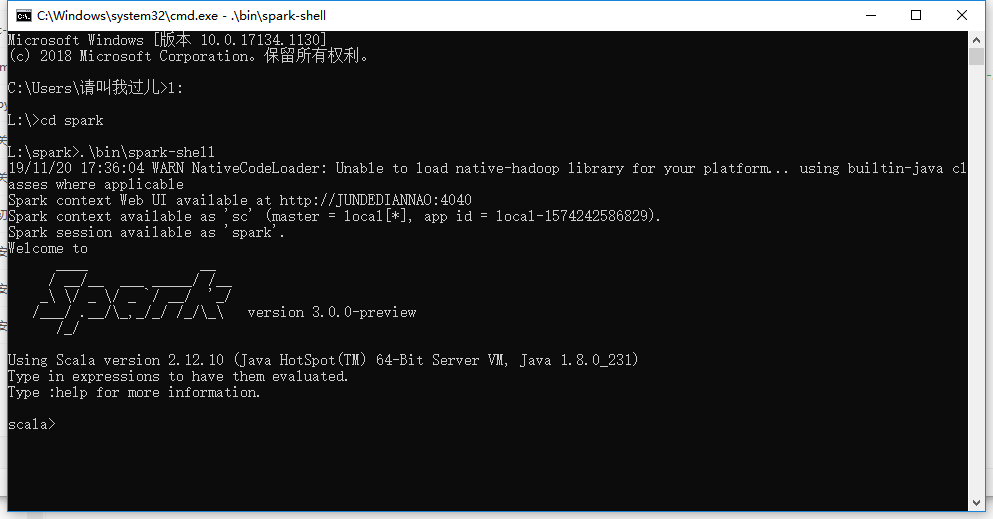
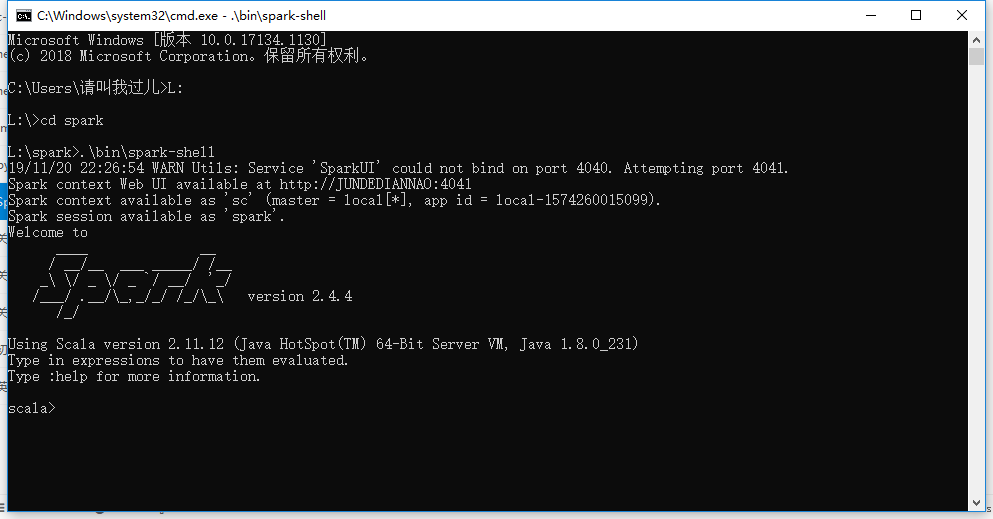
Site updated: 2019-11-20 22:33:50

diff --git a/2019/11/20/Spark-Python开发环境的搭建/index.html b/2019/11/20/Spark-Python开发环境的搭建/index.html
@@ -26,7 +26,7 @@
 <meta property="og:image" content="http://yoursite.com/2019/11/20/Spark-Python开发环境的搭建/4.2.png">
 <meta property="og:image" content="http://yoursite.com/2019/11/20/Spark-Python开发环境的搭建/6.1.png">
 <meta property="og:image" content="http://yoursite.com/2019/11/20/Spark-Python开发环境的搭建/6.2.png">
-<meta property="og:updated_time" content="2019-11-20T09:55:33.261Z">
+<meta property="og:updated_time" content="2019-11-20T14:31:22.311Z">
 <meta name="twitter:card" content="summary">
 <meta name="twitter:title" content="Spark Python开发环境的搭建">
 <meta name="twitter:description" content="搭建 Spark Python操作系统和软件版本信息如下:Windows10教育版，64位Anaconda3-5.3.1-Windows-x86_64python-3.6.5-amd64Java jdk-8u231-windows-x64">
@@ -198,7 +198,7 @@
       
         <p>搭建 Spark Python操作系统和软件版本信息如下:<br>Windows10教育版，64位<br>Anaconda3-5.3.1-Windows-x86_64<br>python-3.6.5-amd64<br>Java jdk-8u231-windows-x64 </p>
 <a id="more"></a>
-<p>hadoop2.7.3<br>spark-3.0.0<br>搭建时间:2019年11月20日<br>搭建Spark Python开发环境时，参考朝乐门老师&lt;&lt;Python编程从数据分析到数据科学&gt;&gt;一书</p>
+<p>hadoop2.7.3<br>spark-2.4.4-bin-hadoop2.7<br>搭建时间:2019年11月20日<br>搭建Spark Python开发环境时，参考朝乐门老师&lt;&lt;Python编程从数据分析到数据科学&gt;&gt;一书</p>
 <h1 id="1-安装Python"><a href="#1-安装Python" class="headerlink" title="1.安装Python"></a>1.安装Python</h1><pre><code>注意安装过程中勾选add to......这个</code></pre><h1 id="2-安装Anaconda"><a href="#2-安装Anaconda" class="headerlink" title="2.安装Anaconda"></a>2.安装Anaconda</h1><pre><code>注意安装过程中遇到复选框全选即可</code></pre><h1 id="3-安装和配置Java"><a href="#3-安装和配置Java" class="headerlink" title="3.安装和配置Java"></a>3.安装和配置Java</h1><h2 id="3-1下载JDK8"><a href="#3-1下载JDK8" class="headerlink" title="3.1下载JDK8"></a>3.1下载JDK8</h2><pre><code>官网地址为:https://www.oracle.com/technetwork/java/javase/downloads/jdk8-downloads-2133151.html
 下载的JDK与电脑版本操作系统位数需一致。</code></pre><p><img src="/2019/11/20/Spark-Python开发环境的搭建/3.1.png" alt></p>
 <h2 id="3-2-安装JDK8"><a href="#3-2-安装JDK8" class="headerlink" title="3.2 安装JDK8"></a>3.2 安装JDK8</h2><pre><code>安装过程会提示安装JRE,建议安装它。注意:安装过程中，所有文件路径中不要有空格或汉字。</code></pre><h2 id="3-3-配置Java环境变量"><a href="#3-3-配置Java环境变量" class="headerlink" title="3.3 配置Java环境变量"></a>3.3 配置Java环境变量</h2><pre><code>打开Windows环境变量编辑器的方法: 
@@ -208,8 +208,8 @@
 <h2 id="3-4-测试Java"><a href="#3-4-测试Java" class="headerlink" title="3.4 测试Java"></a>3.4 测试Java</h2><pre><code>操作方法:在命令行中输入“java -version”，如果成功如下图所示</code></pre><p><img src="/2019/11/20/Spark-Python开发环境的搭建/3.6.png" alt></p>
 <h1 id="4-安装和配置Spark"><a href="#4-安装和配置Spark" class="headerlink" title="4.安装和配置Spark"></a>4.安装和配置Spark</h1><h2 id="4-1下载Spark"><a href="#4-1下载Spark" class="headerlink" title="4.1下载Spark"></a>4.1下载Spark</h2><pre><code>从Spark官网下载，URL为http://spark.apache.org/downloads.html</code></pre><p><img src="/2019/11/20/Spark-Python开发环境的搭建/4.1.png" alt></p>
 <h2 id="4-2-安装Spark"><a href="#4-2-安装Spark" class="headerlink" title="4.2 安装Spark"></a>4.2 安装Spark</h2><pre><code>下载基于Hadoop预编译的Spark程序包，Spark程序解压后可直接使用</code></pre><h2 id="4-3-配置Spark"><a href="#4-3-配置Spark" class="headerlink" title="4.3 配置Spark"></a>4.3 配置Spark</h2><h3 id="4-3-1-配置SPARK-HOME"><a href="#4-3-1-配置SPARK-HOME" class="headerlink" title="4.3.1 配置SPARK_HOME"></a>4.3.1 配置SPARK_HOME</h3><pre><code>在系统变量中新建变量名SPARK_HOME，变量值为Spark的安装路径</code></pre><p><img src="/2019/11/20/Spark-Python开发环境的搭建/4.2.png" alt></p>
-<h3 id="4-3-2编辑系统变量Path"><a href="#4-3-2编辑系统变量Path" class="headerlink" title="4.3.2编辑系统变量Path"></a>4.3.2编辑系统变量Path</h3><pre><code>在系统变量Path中新建 %SPARK_HOME\bin% 和 %SPARK_HOME\sbin%</code></pre><h3 id="4-3-3-配置日志显示级别"><a href="#4-3-3-配置日志显示级别" class="headerlink" title="4.3.3 配置日志显示级别"></a>4.3.3 配置日志显示级别</h3><pre><code>.复制spark\conf\下的log4j.properties.template为log4j.properties，打开log4j.properties修改19行为log4j.rootCategory=WARN, console</code></pre><h1 id="5-安装和配置Hadoop"><a href="#5-安装和配置Hadoop" class="headerlink" title="5.安装和配置Hadoop"></a>5.安装和配置Hadoop</h1><h2 id="5-1-下载Haddop"><a href="#5-1-下载Haddop" class="headerlink" title="5.1 下载Haddop"></a>5.1 下载Haddop</h2><pre><code>下载地址为 https://mirrors.tuna.tsinghua.edu.cn/apache/hadoop/common/hadoop-2.10.0/hadoop-2.10.0-src.tar.gz。该地址是朝乐门老师GitHub上的资源</code></pre><h2 id="5-2-配置系统变量"><a href="#5-2-配置系统变量" class="headerlink" title="5.2 配置系统变量"></a>5.2 配置系统变量</h2><pre><code>5.2.1 新建系统变量HADOOP_HOME，变量值为hadoop的安装路径
-5.2.2 在系统变量Path中新建 %HADOOP_HOME\bin% </code></pre><h1 id="6-测试Spark"><a href="#6-测试Spark" class="headerlink" title="6.测试Spark"></a>6.测试Spark</h1><h2 id="6-1-测试Spark"><a href="#6-1-测试Spark" class="headerlink" title="6.1 测试Spark"></a>6.1 测试Spark</h2><pre><code>命令提示符中，通过cd命令跳转到spark安装目录，运行 .\bin\spark-shell</code></pre><p>   <img src="/2019/11/20/Spark-Python开发环境的搭建/6.1.png" alt></p>
+<h3 id="4-3-2编辑系统变量Path"><a href="#4-3-2编辑系统变量Path" class="headerlink" title="4.3.2编辑系统变量Path"></a>4.3.2编辑系统变量Path</h3><pre><code>在系统变量Path中新建 %SPARK_HOM%E\bin 和 %SPARK_HOME%\sbin</code></pre><h3 id="4-3-3-配置日志显示级别"><a href="#4-3-3-配置日志显示级别" class="headerlink" title="4.3.3 配置日志显示级别"></a>4.3.3 配置日志显示级别</h3><pre><code>.复制spark\conf\下的log4j.properties.template为log4j.properties，打开log4j.properties修改19行为log4j.rootCategory=WARN, console</code></pre><h1 id="5-安装和配置Hadoop"><a href="#5-安装和配置Hadoop" class="headerlink" title="5.安装和配置Hadoop"></a>5.安装和配置Hadoop</h1><h2 id="5-1-下载Haddop"><a href="#5-1-下载Haddop" class="headerlink" title="5.1 下载Haddop"></a>5.1 下载Haddop</h2><pre><code>下载地址为 https://codeload.github.com/LemenChao/hadoop.dll-and-winutils.exe-for-hadoop2.7.3-on-windows_X64/zip/master。该地址是朝乐门老师GitHub上的资源</code></pre><h2 id="5-2-配置系统变量"><a href="#5-2-配置系统变量" class="headerlink" title="5.2 配置系统变量"></a>5.2 配置系统变量</h2><pre><code>5.2.1 新建系统变量HADOOP_HOME，变量值为hadoop的安装路径
+5.2.2 在系统变量Path中新建 %HADOOP_HOME%\bin </code></pre><h1 id="6-测试Spark"><a href="#6-测试Spark" class="headerlink" title="6.测试Spark"></a>6.测试Spark</h1><h2 id="6-1-测试Spark"><a href="#6-1-测试Spark" class="headerlink" title="6.1 测试Spark"></a>6.1 测试Spark</h2><pre><code>命令提示符中，通过cd命令跳转到spark安装目录，运行 .\bin\spark-shell</code></pre><p>   <img src="/2019/11/20/Spark-Python开发环境的搭建/6.1.png" alt></p>
 <h2 id="6-2-测试Pyspark"><a href="#6-2-测试Pyspark" class="headerlink" title="6.2 测试Pyspark"></a>6.2 测试Pyspark</h2><pre><code>命令提示符中，通过cd命令跳转到spark安装目录，运行  .\bin\pyspark</code></pre><p>   <img src="/2019/11/20/Spark-Python开发环境的搭建/6.2.png" alt></p>
 
       
